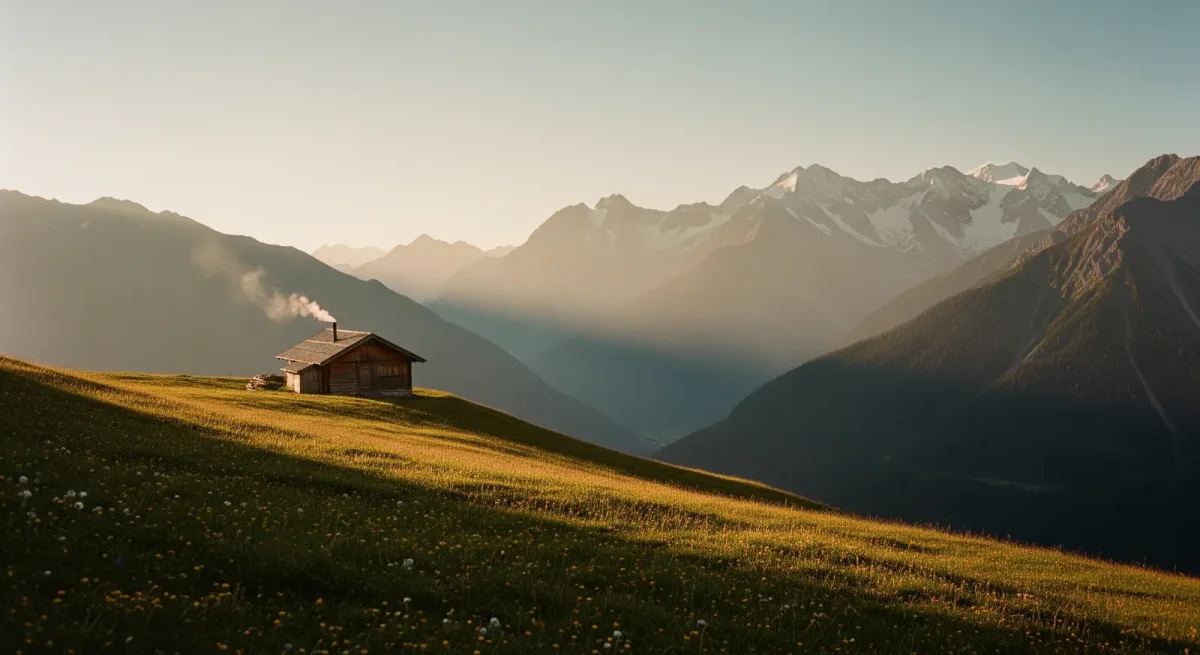
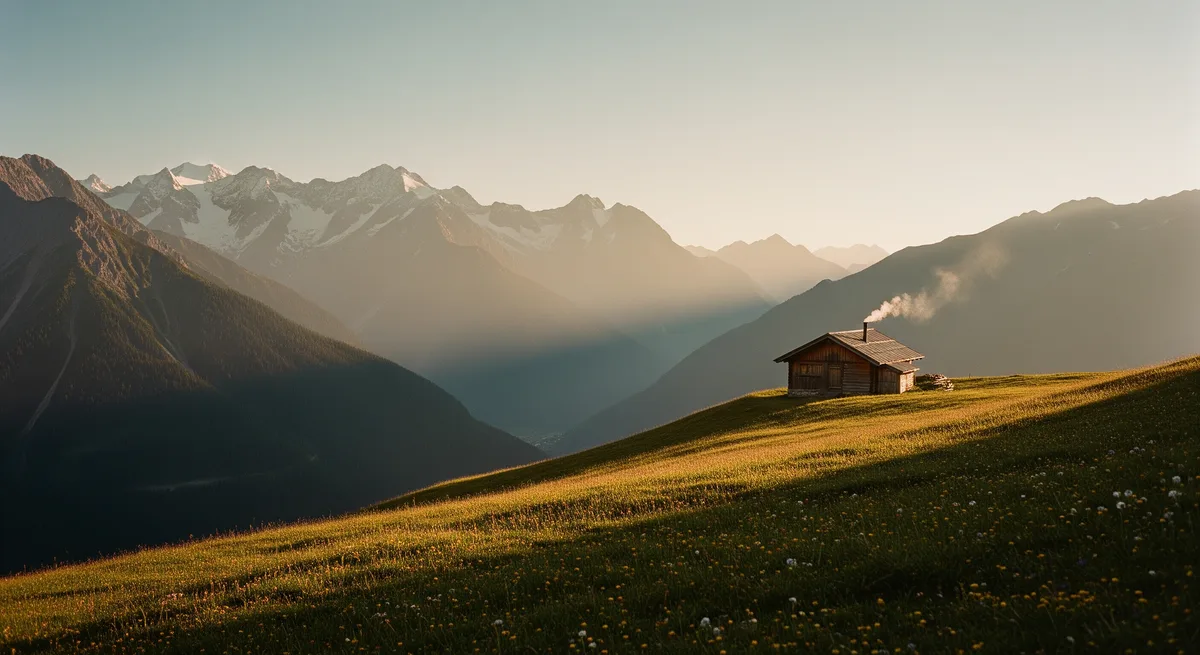
PPC consultant: cabin on right, jump nav back, larger fonts/photo, stronger copy
Round-3 fixes per Aaron's review of the loss-framing rollout.

Hero image: flopped alpine-cabin-meadow horizontally (sharp .flop()) — cabin
now on the RIGHT, headline on the LEFT, no longer competing.

Jump nav restored: DIFFERENCE / RESULTS / STRATEGY / FAQ anchors back on
PPCNavbar (desktop + mobile). The single-CTA-only treatment was too
aggressive for this audience.

Type scale: eyebrow 9→11, subhead 15-16→17-19 (and brightened to bone-light),
CTA 11→12, promise 12→14, founder name 13→16, founder role 10→11.

Federico photo: 44px → 68px with shadow + thicker moss-light border.

Subhead copy strengthened (default + all 3 DTR variants).

diff --git a/src/components/PPCNavbar.jsx b/src/components/PPCNavbar.jsx
@@ -1,14 +1,20 @@
 import { useEffect, useState } from 'react';
 
 /* ─── PPC Navbar ───
-   ClickFunnels-style minimal nav for paid landing pages: wordmark + single
-   "Talk to Federico" CTA only. Section-jump links (Difference / Results /
-   Strategy / FAQ) intentionally removed — they were splitting attention
-   on a single-purpose conversion page. The only nav action is "go to
-   schedule." Mobile = same shape, no hamburger drawer. */
+   Floating pill nav for paid landing pages: wordmark + 4 in-page jump
+   anchors (DIFFERENCE / RESULTS / STRATEGY / FAQ) + primary CTA.
+   No off-page links — anchors smooth-scroll to in-page section IDs. */
+
+const navLinks = [
+  { label: 'DIFFERENCE', href: '#difference' },
+  { label: 'RESULTS', href: '#results' },
+  { label: 'STRATEGY', href: '#process' },
+  { label: 'FAQ', href: '#faq' },
+];
 
 export default function PPCNavbar() {
   const [scrolled, setScrolled] = useState(false);
+  const [menuOpen, setMenuOpen] = useState(false);
 
   useEffect(() => {
     const handleScroll = () => setScrolled(window.scrollY > 80);
@@ -17,22 +23,23 @@ export default function PPCNavbar() {
     return () => window.removeEventListener('scroll', handleScroll);
   }, []);
 
-  const scrollToSchedule = (e) => {
+  const scrollTo = (href) => (e) => {
     e.preventDefault();
-    const el = document.getElementById('schedule');
+    setMenuOpen(false);
+    const id = href.replace('#', '');
+    const el = document.getElementById(id);
     if (el) el.scrollIntoView({ behavior: 'smooth', block: 'start' });
   };
 
   return (
     <nav
-      className={`fixed top-4 left-1/2 -translate-x-1/2 z-50 w-[92%] md:w-auto px-3 py-2.5 rounded-full flex items-center gap-3 transition-all duration-[350ms] ${
+      className={`fixed top-4 left-1/2 -translate-x-1/2 z-50 w-[92%] md:w-auto px-3 py-2.5 rounded-full flex items-center gap-1 transition-all duration-[350ms] ${
         scrolled
           ? 'bg-[#DDDAD3]/60 backdrop-blur-[12px] border border-[#C8C4BC]/40 shadow-[0_4px_24px_rgba(22,25,16,0.08)]'
           : 'bg-transparent border border-transparent'
       }`}
       style={{ transitionTimingFunction: 'cubic-bezier(0.25, 0.1, 0.25, 1)' }}
     >
-      {/* Wordmark — plain text, NOT a link */}
       <span
         className={`text-[22px] font-normal tracking-[0.5px] px-3 transition-colors duration-[350ms] select-none ${
           scrolled ? 'text-[#3F261F]' : 'text-[#E8E6E1]'
@@ -42,19 +49,95 @@ export default function PPCNavbar() {
         revfactor
       </span>
 
-      {/* Single CTA — Talk to Federico → #schedule. Visible on every viewport. */}
-      <a
-        href="#schedule"
-        onClick={scrollToSchedule}
-        className="ml-auto inline-flex items-center px-5 py-2 bg-[#5D6D59] text-[#E8E6E1] font-bold uppercase text-[9px] tracking-[2px] rounded-full relative overflow-hidden group transition-transform duration-[200ms] hover:scale-[1.02]"
-        style={{ transitionTimingFunction: 'cubic-bezier(0.25, 0.1, 0.25, 1)' }}
-      >
-        <span
-          className="absolute inset-0 bg-[#7A8B76] translate-y-full group-hover:translate-y-0 transition-transform duration-[350ms]"
+      {/* Desktop jump anchors */}
+      <div className="hidden md:flex items-center gap-1">
+        {navLinks.map((link) => (
+          <a
+            key={link.label}
+            href={link.href}
+            onClick={scrollTo(link.href)}
+            className={`px-3 py-1.5 font-bold uppercase text-[10px] tracking-[2.5px] transition-colors duration-[200ms] hover:opacity-70 ${
+              scrolled ? 'text-[#3F261F]' : 'text-[#E8E6E1]'
+            }`}
+          >
+            {link.label}
+          </a>
+        ))}
+      </div>
+
+      {/* Desktop CTA */}
+      <div className="hidden md:flex items-center gap-2 ml-2">
+        <a
+          href="#schedule"
+          onClick={scrollTo('#schedule')}
+          className="inline-flex items-center px-5 py-2 border border-transparent bg-[#5D6D59] text-[#E8E6E1] font-bold uppercase text-[10px] tracking-[2px] rounded-full relative overflow-hidden group transition-transform duration-[200ms] hover:scale-[1.02]"
           style={{ transitionTimingFunction: 'cubic-bezier(0.25, 0.1, 0.25, 1)' }}
-        />
-        <span className="relative z-10">Talk to Federico</span>
-      </a>
+        >
+          <span
+            className="absolute inset-0 bg-[#7A8B76] translate-y-full group-hover:translate-y-0 transition-transform duration-[350ms]"
+            style={{ transitionTimingFunction: 'cubic-bezier(0.25, 0.1, 0.25, 1)' }}
+          />
+          <span className="relative z-10">Talk to Federico</span>
+        </a>
+      </div>
+
+      {/* Mobile menu toggle */}
+      <button
+        onClick={() => setMenuOpen(!menuOpen)}
+        className={`md:hidden ml-auto p-2 transition-colors duration-200 ${
+          scrolled ? 'text-[#3F261F]' : 'text-[#E8E6E1]'
+        }`}
+        aria-label="Toggle menu"
+      >
+        <div className="relative w-[18px] h-[18px]">
+          <span
+            className="absolute left-[2px] right-[2px] h-[1.5px] rounded-full bg-current"
+            style={{
+              top: menuOpen ? '8.25px' : '3.25px',
+              transform: menuOpen ? 'rotate(45deg)' : 'rotate(0deg)',
+              transition: 'top 300ms cubic-bezier(0.25, 0.1, 0.25, 1), transform 300ms cubic-bezier(0.25, 0.1, 0.25, 1)',
+            }}
+          />
+          <span
+            className="absolute left-[2px] right-[2px] h-[1.5px] rounded-full bg-current top-[8.25px]"
+            style={{
+              opacity: menuOpen ? 0 : 1,
+              transition: 'opacity 200ms cubic-bezier(0.25, 0.1, 0.25, 1)',
+            }}
+          />
+          <span
+            className="absolute left-[2px] right-[2px] h-[1.5px] rounded-full bg-current"
+            style={{
+              top: menuOpen ? '8.25px' : '13.25px',
+              transform: menuOpen ? 'rotate(-45deg)' : 'rotate(0deg)',
+              transition: 'top 300ms cubic-bezier(0.25, 0.1, 0.25, 1), transform 300ms cubic-bezier(0.25, 0.1, 0.25, 1)',
+            }}
+          />
+        </div>
+      </button>
+
+      {/* Mobile dropdown */}
+      {menuOpen && (
+        <div className="absolute top-full left-0 right-0 mt-2 bg-[#DDDAD3]/95 backdrop-blur-[16px] rounded-[20px] border border-[#C8C4BC]/40 p-4 md:hidden shadow-[0_8px_32px_rgba(22,25,16,0.12)]">
+          {navLinks.map((link) => (
+            <a
+              key={link.label}
+              href={link.href}
+              onClick={scrollTo(link.href)}
+              className="block py-2.5 font-bold uppercase text-[11px] tracking-[2.5px] text-[#3F261F]"
+            >
+              {link.label}
+            </a>
+          ))}
+          <a
+            href="#schedule"
+            onClick={scrollTo('#schedule')}
+            className="block mt-2 w-full text-center py-3 bg-[#5D6D59] text-[#E8E6E1] font-bold uppercase text-[11px] tracking-[2px] rounded-full"
+          >
+            Talk to Federico
+          </a>
+        </div>
+      )}
     </nav>
   );
 }

diff --git a/src/components/PPCLanding.jsx b/src/components/PPCLanding.jsx
@@ -15,7 +15,7 @@ const MESSAGE_VARIANTS = {
     eyebrow: 'STR REVENUE STRATEGY',
     headlinePart1: 'Most STRs lose 18% in revenue.',
     headlinePart2Italic: 'We get it back.',
-    subhead: 'Monthly strategy with Federico or Emily. Weekly comp tracking. Documented +18% lift across our portfolio. Flat $320/mo per property.',
+    subhead: 'Most consultants run an audit, hand you a deck, and disappear. We don’t. Federico stays on every account — monthly strategy, weekly comp tracking, calendar optimization. Documented +18% lift. Flat $320/mo.',
     ctaText: 'Talk to Federico',
   },
   // Tool Intent campaign — searcher is shopping a pricing tool, reframe the category
@@ -23,7 +23,7 @@ const MESSAGE_VARIANTS = {
     eyebrow: 'BEYOND PRICING TOOLS',
     headlinePart1: 'Pricing tools set numbers.',
     headlinePart2Italic: 'We set strategy.',
-    subhead: 'A real strategist works alongside your tool to extract the revenue your algorithm leaves on the table. Hosts see +18% lift. $320/mo flat.',
+    subhead: 'Your pricing tool prices tonight. We build the strategy that makes it work — and pull back the 18% your algorithm leaves on the table. Works alongside any tool. Flat $320/mo.',
     ctaText: 'Talk to Federico',
   },
   // Conquest campaign — searcher is on PriceLabs / Wheelhouse / Beyond
@@ -31,7 +31,7 @@ const MESSAGE_VARIANTS = {
     eyebrow: 'STRATEGY YOUR TOOL CAN’T SHIP',
     headlinePart1: 'Already on PriceLabs?',
     headlinePart2Italic: 'You’re probably 18% short.',
-    subhead: 'Your pricing algorithm sets numbers. We build the strategy that makes them work — comp tracking, calendar optimization, channel mix. +18% lift across our portfolio.',
+    subhead: 'Algorithms set the numbers. They can’t set the strategy that makes the numbers actually work — comp positioning, length-of-stay rules, channel mix, listing audit. That’s us. Documented +18% lift across our portfolio.',
     ctaText: 'Get a strategy review',
   },
 };
@@ -163,7 +163,7 @@ export default function PPCLanding({
 
         <div className="relative z-10 w-full max-w-7xl mx-auto px-6 md:px-12 pt-32 pb-16 md:pt-40 md:pb-24">
           <div className="max-w-2xl">
-            <p className="font-bold uppercase text-[9px] tracking-[3px] text-[#7A8B76] mb-6">
+            <p className="font-bold uppercase text-[11px] tracking-[3px] text-[#7A8B76] mb-6">
               {eyebrow}
             </p>
             <h1
@@ -177,12 +177,12 @@ export default function PPCLanding({
                 </span>
               )}
             </h1>
-            <p className="text-[15px] md:text-[16px] leading-[1.7] text-[#C8C4BC] max-w-xl mb-8">
+            <p className="text-[17px] md:text-[19px] leading-[1.55] text-[#E8E6E1] max-w-xl mb-8">
               {subhead}
             </p>
             <button
               onClick={open}
-              className="inline-flex items-center gap-3 px-8 py-4 bg-[#5D6D59] text-[#E8E6E1] font-bold uppercase text-[11px] tracking-[2px] rounded-full relative overflow-hidden group transition-transform duration-[200ms] hover:scale-[1.02] hover:shadow-[0_8px_24px_rgba(93,109,89,0.35)]"
+              className="inline-flex items-center gap-3 px-8 py-4 bg-[#5D6D59] text-[#E8E6E1] font-bold uppercase text-[12px] tracking-[2px] rounded-full relative overflow-hidden group transition-transform duration-[200ms] hover:scale-[1.02] hover:shadow-[0_8px_24px_rgba(93,109,89,0.35)]"
             >
               <span className="absolute inset-0 bg-[#7A8B76] translate-y-full group-hover:translate-y-0 transition-transform duration-[350ms]" />
               <span className="relative z-10">{ctaText}</span>
@@ -191,27 +191,27 @@ export default function PPCLanding({
             {/* Risk-reversal — explicit guarantee badge under the CTA. Reframes
                 the call as "free advice, not a sales pitch" → lifts CVR for
                 cold paid traffic. */}
-            <div className="mt-4 flex items-start gap-2 max-w-md">
-              <ShieldCheck className="w-4 h-4 text-[#7A8B76] mt-[2px] flex-shrink-0" />
-              <p className="text-[12px] leading-[1.5] text-[#C8C4BC]">
+            <div className="mt-5 flex items-start gap-2.5 max-w-lg">
+              <ShieldCheck className="w-5 h-5 text-[#7A8B76] mt-[2px] flex-shrink-0" />
+              <p className="text-[14px] leading-[1.55] text-[#C8C4BC]">
                 <span className="font-bold text-[#E8E6E1]">Our promise:</span>{' '}
                 You walk away with 3 specific revenue recommendations for your property — even if we never work together.
               </p>
             </div>
             {/* Founder signature — Federico's actual photo + name above fold for trust */}
-            <div className="mt-6 flex items-center gap-3 pt-5 border-t border-[#3F261F]/40 max-w-xs">
+            <div className="mt-7 flex items-center gap-4 pt-5 border-t border-[#3F261F]/40 max-w-md">
               <img
                 src="/team/federico.jpg"
                 alt="Federico Zimerman, founder of RevFactor"
-                width="44"
-                height="44"
+                width="68"
+                height="68"
                 loading="eager"
                 decoding="async"
-                className="w-11 h-11 rounded-full object-cover border-2 border-[#7A8B76] flex-shrink-0"
+                className="w-[68px] h-[68px] rounded-full object-cover border-2 border-[#7A8B76] flex-shrink-0 shadow-[0_4px_16px_rgba(0,0,0,0.3)]"
               />
               <div className="leading-tight">
-                <p className="text-[13px] text-[#E8E6E1] font-medium">Federico Zimerman</p>
-                <p className="text-[10px] uppercase tracking-[1.5px] text-[#7A8B76] font-bold">Founder · STR strategist</p>
+                <p className="text-[16px] text-[#E8E6E1] font-medium mb-0.5">Federico Zimerman</p>
+                <p className="text-[11px] uppercase tracking-[1.5px] text-[#7A8B76] font-bold">Founder · STR Revenue Strategist</p>
               </div>
             </div>
           </div>
